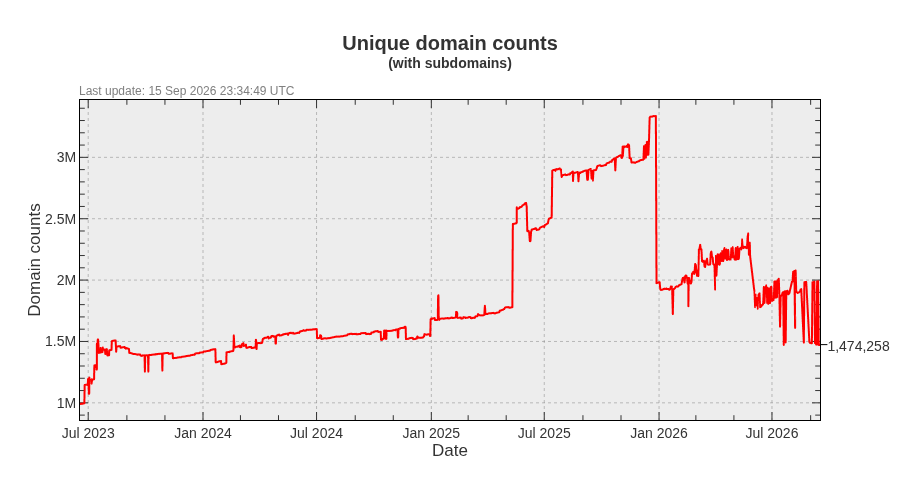
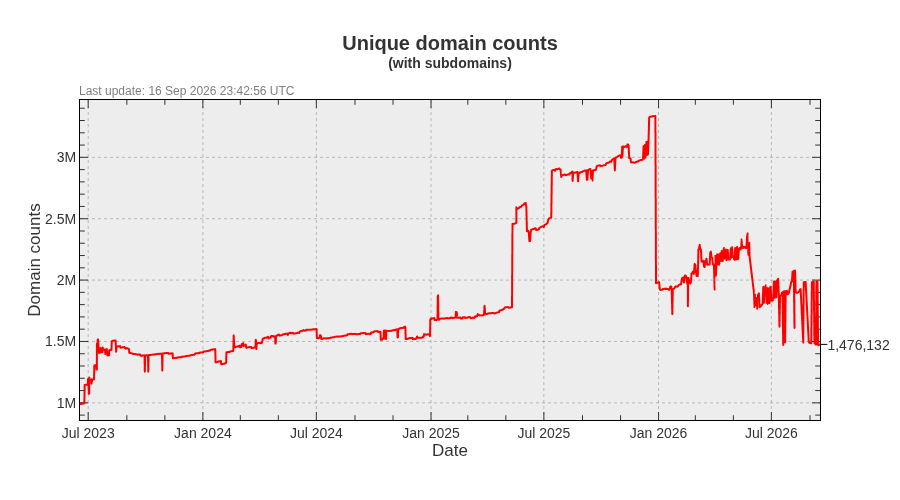
Update pages

diff --git a/README.md b/README.md
@@ -3,22 +3,22 @@ A blocklist file for blocking ads, trackers and malware domains.
 
[1 lines of base64/hex data omitted]
 
-- Unique domains: 1,474,258
-- Without subdomains: 751,650
-- Last update: 15 Sep 2026 23:34:49 UTC
-- Version: 2026.09.15.01
+- Unique domains: 1,476,132
+- Without subdomains: 753,438
+- Last update: 16 Sep 2026 23:42:56 UTC
+- Version: 2026.09.16.01
 
 
 ## Downloads:
 
 | Format             | Domain count      | Download Link |
 |------------------ | -----------------|-------------|
-| *Adblock Plus*     | 751,650 | [bad-hosts-abp](https://dl.cenk.app/bad-hosts/bad-hosts-abp) |
-| *Wildcard domains* | 751,650 | [bad-hosts-wildcard](https://dl.cenk.app/bad-hosts/bad-hosts-wildcard) |
-| *dnsmasq*          | 751,650 | [bad-hosts-dnsmasq](https://dl.cenk.app/bad-hosts/bad-hosts-dnsmasq) |
-| *hosts*            | 1,474,258 | [hosts](https://dl.cenk.app/bad-hosts/hosts) |
-| *hosts (ipv6)*     | 1,474,258 | [hosts-ipv6](https://dl.cenk.app/bad-hosts/hosts-ipv6) |
-| *Plain domains*    | 1,474,258 | [bad-hosts-domains](https://dl.cenk.app/bad-hosts/bad-hosts-domains) |
+| *Adblock Plus*     | 753,438 | [bad-hosts-abp](https://dl.cenk.app/bad-hosts/bad-hosts-abp) |
+| *Wildcard domains* | 753,438 | [bad-hosts-wildcard](https://dl.cenk.app/bad-hosts/bad-hosts-wildcard) |
+| *dnsmasq*          | 753,438 | [bad-hosts-dnsmasq](https://dl.cenk.app/bad-hosts/bad-hosts-dnsmasq) |
+| *hosts*            | 1,476,132 | [hosts](https://dl.cenk.app/bad-hosts/hosts) |
+| *hosts (ipv6)*     | 1,476,132 | [hosts-ipv6](https://dl.cenk.app/bad-hosts/hosts-ipv6) |
+| *Plain domains*    | 1,476,132 | [bad-hosts-domains](https://dl.cenk.app/bad-hosts/bad-hosts-domains) |
 
 ## Domain count history
 ### With subdomains
